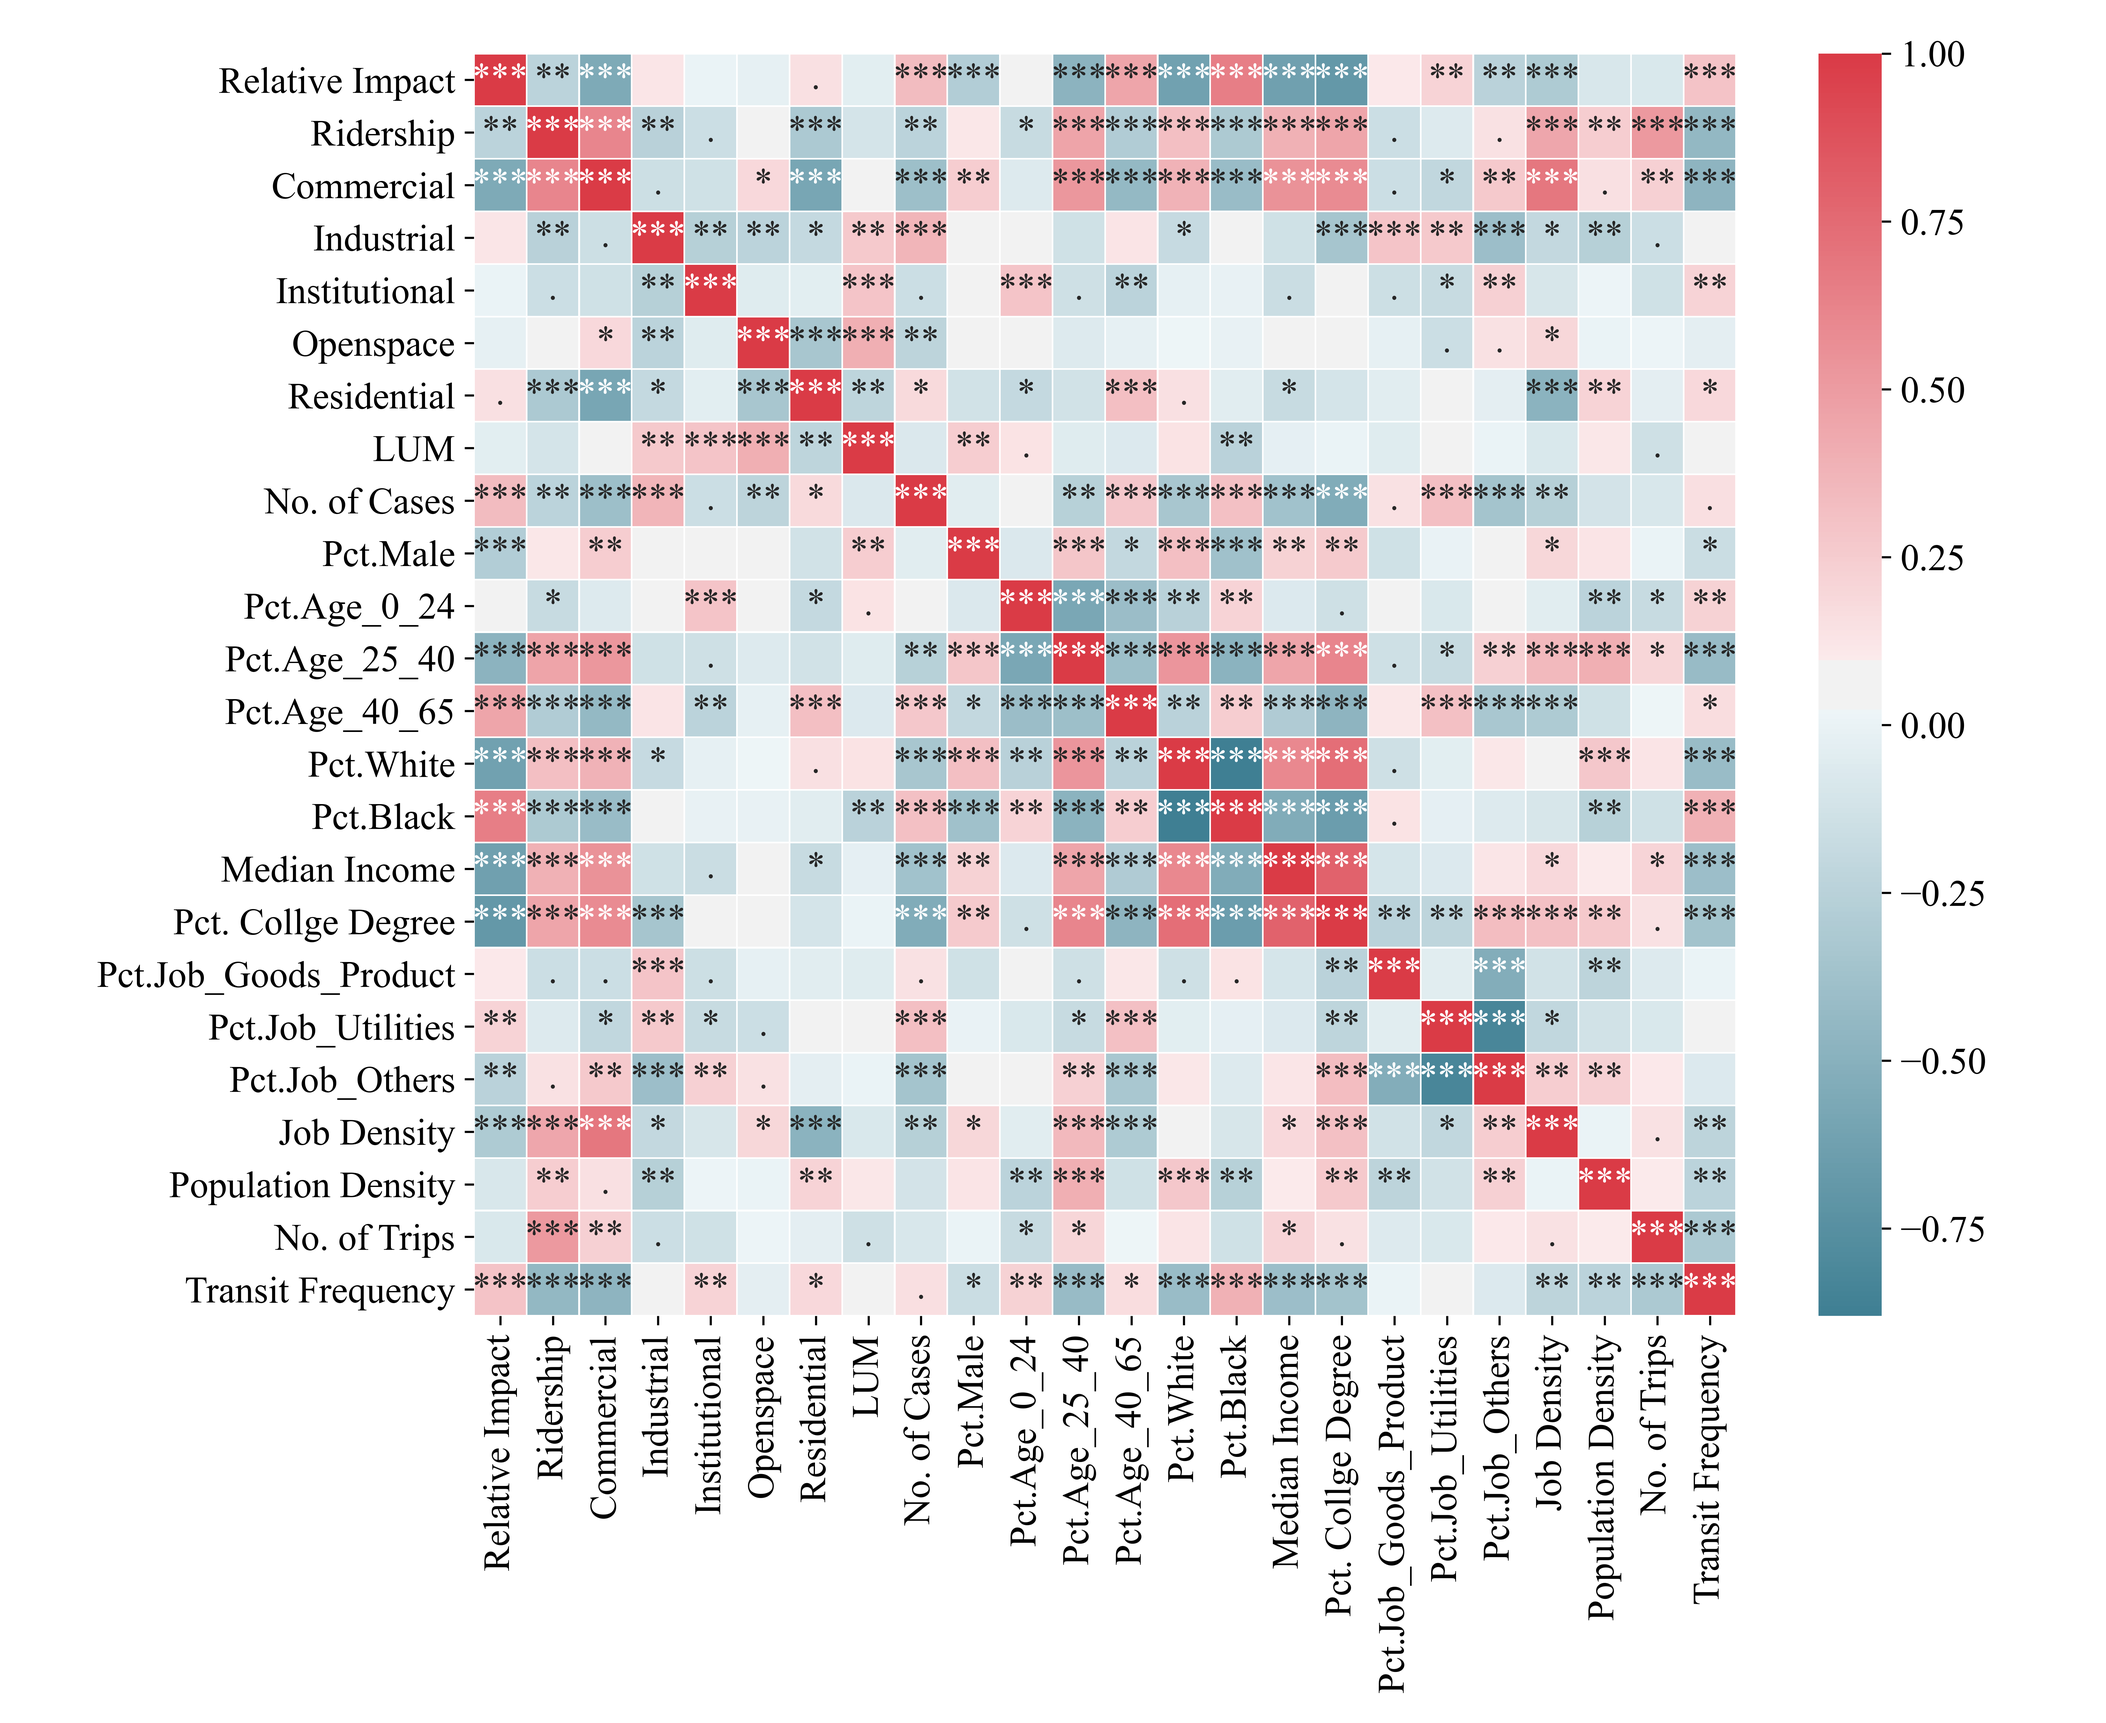
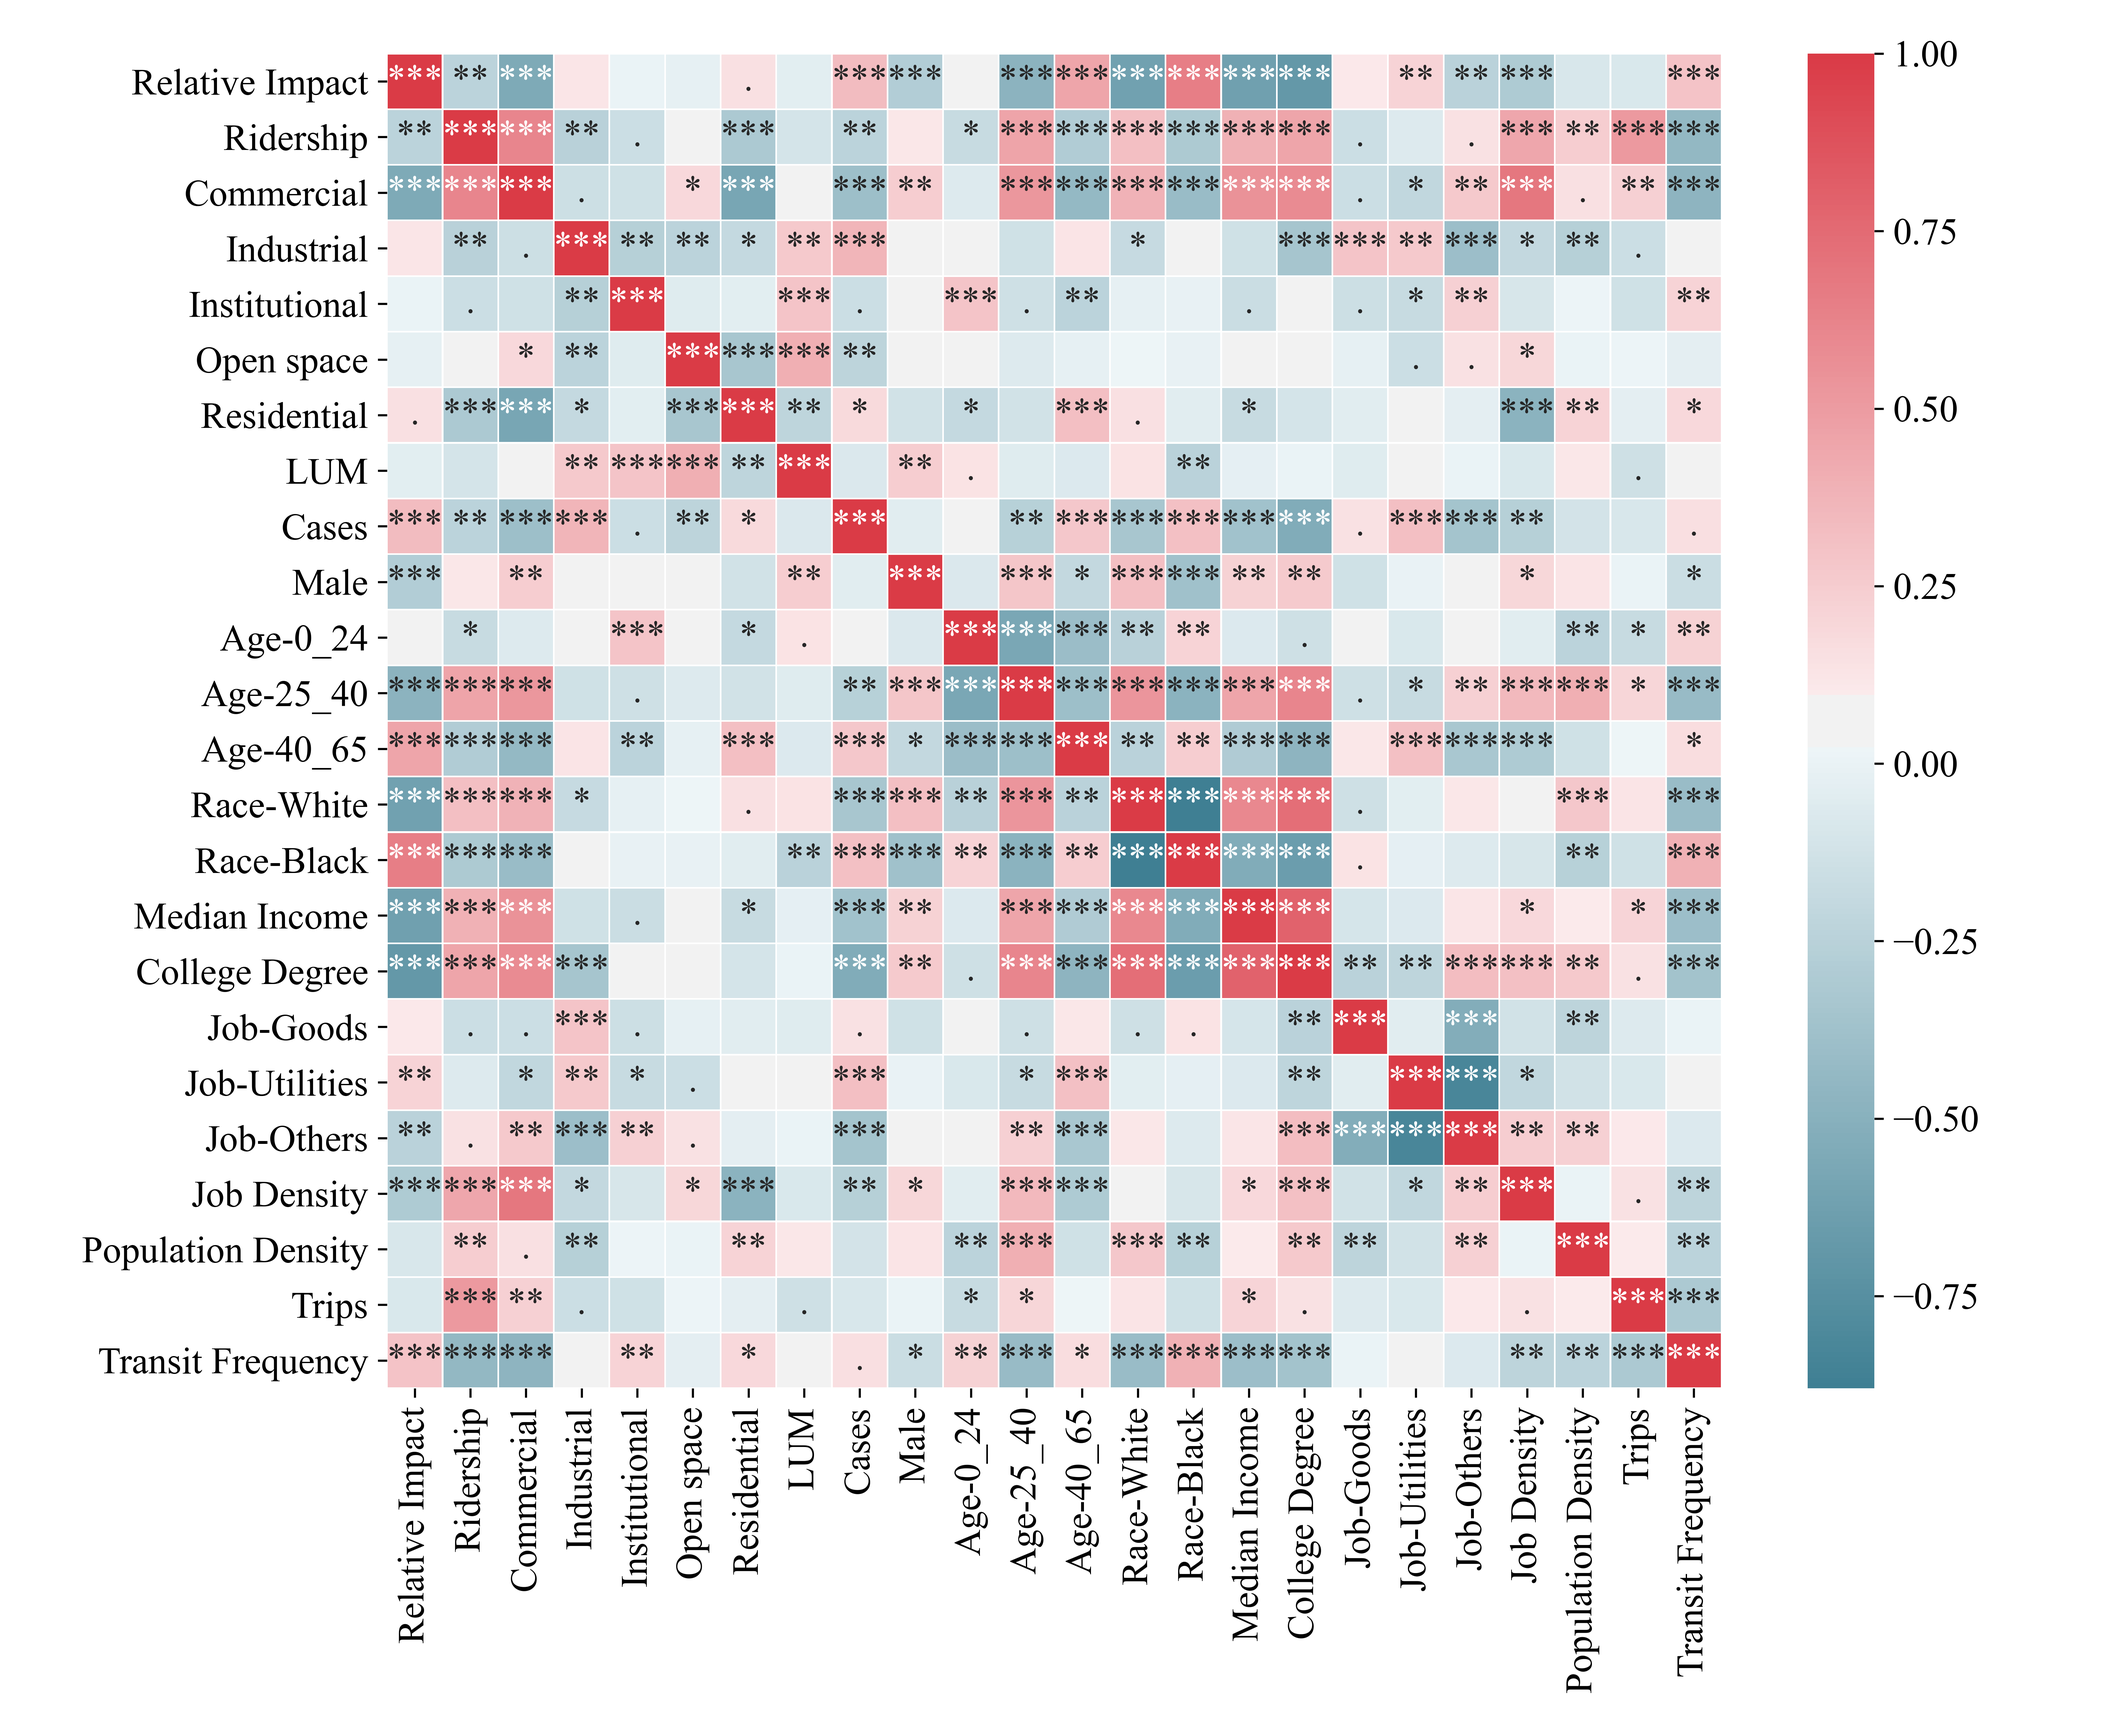
Update_Figure

diff --git a/4-Feature_Build.py b/4-Feature_Build.py
@@ -57,7 +57,7 @@ Buffer_S['station_id'] = Station['station_id']
 
 ## Socio calculation
 # Read BlockGroup
-BlockGroup = gpd.read_file(r'BlockGroup.shp')
+BlockGroup = gpd.read_file(r'D:\Transit\GIS\BlockGroup.shp')
 BlockGroup = BlockGroup.to_crs('EPSG:' + str(utm_code))
 # BlockGroup['ALAND'] = BlockGroup['ALAND'] * 3.86102e-7  # to sq. miles
 BlockGroup['AREA'] = BlockGroup.geometry.area * 3.86102e-7  # to sq. miles
@@ -236,14 +236,15 @@ W_Job = W_Job.drop(
      'WJob_Goods_Product', 'WJob_Utilities', 'WJob_OtherServices'], axis=1)
 
 # # Read population (new)
-# T_pop = pd.read_csv(r'D:\Transit\Population_by_2010_Census_Block.csv')
-# T_pop['GEOID'] = T_pop['CENSUS BLOCK FULL'].astype(str).str[0:-3]
-# T_pop = T_pop[['GEOID', 'TOTAL POPULATION']]
-# T_pop = T_pop.groupby('GEOID').sum()['TOTAL POPULATION'].reset_index()
-# T_pop = T_pop.merge(SInBG_index, on='GEOID', how='right')
-# T_pop = T_pop.fillna(T_pop.mean())
-# T_pop['NPop_Density'] = T_pop['TOTAL POPULATION'] / (T_pop['AREA'] * 1e3)
-# T_pop = T_pop[['station_id', 'NPop_Density']]
+T_pop = pd.read_csv(r'D:\Transit\Population_by_2010_Census_Block.csv')
+T_pop['GEOID'] = T_pop['CENSUS BLOCK FULL'].astype(str).str[0:-3]
+T_pop = T_pop[['GEOID', 'TOTAL POPULATION']]
+T_pop = T_pop.groupby('GEOID').sum()['TOTAL POPULATION'].reset_index()
+T_pop = T_pop.merge(SInBG_index, on='GEOID', how='right')
+T_pop = T_pop.fillna(T_pop.mean())
+T_pop['NPop_Density'] = T_pop['TOTAL POPULATION'] / (T_pop['AREA'] * 1e3)
+T_pop = T_pop[['station_id', 'NPop_Density']]
+# T_pop.describe().T
 
 # Merge all data
 dfs = [Road_Length_With_Type, LandUse_Area_PCT_Final, LUM, StationZIP, Socid_Raw_Final, W_Job]
@@ -306,7 +307,11 @@ No_Fre_Trips.columns = ['station_id', 'Num_trips', 'Freq']
 
 # Merge all in one matrix
 All_final = All_final.merge(No_Fre_Trips, on='station_id')
-# All_final.to_csv('All_final_Transit_R_0810.csv')
+# Change unit
+All_final['Num_trips'] = All_final['Num_trips'] / 1e3
+All_final['rides'] = All_final['rides'] / 1e3
+All_final.describe().T
+# All_final.to_csv('All_final_Transit_R_0812.csv')
 
 
 # PLOT CORR
@@ -317,13 +322,18 @@ corr_matr = All_final[['Relative_Impact', 'rides', 'COMMERCIAL', 'INDUSTRIAL',
                        'Income', 'College', 'Pct.WJob_Goods_Product',
                        'Pct.WJob_Utilities', 'Pct.WJob_OtherServices', 'WTotal_Job_Density',
                        'PopDensity', 'Num_trips', 'Freq']]
+# corr_matr['Relative_Impact'] = -corr_matr['Relative_Impact']
 corr_matr.rename({'Relative_Impact': 'Relative Impact', 'rides': 'Ridership', 'COMMERCIAL': 'Commercial',
-                  'INDUSTRIAL': 'Industrial', 'INSTITUTIONAL': 'Institutional', 'OPENSPACE': 'Openspace',
-                  'RESIDENTIAL': 'Residential', 'Cumu_Cases': 'No. of Cases', 'Income': 'Median Income',
-                  'College': 'Pct. Collge Degree', 'Pct.WJob_Goods_Product': 'Pct.Job_Goods_Product',
-                  'Pct.WJob_Utilities': 'Pct.Job_Utilities', 'Pct.WJob_OtherServices': 'Pct.Job_Others',
+                  'INDUSTRIAL': 'Industrial', 'INSTITUTIONAL': 'Institutional', 'OPENSPACE': 'Open space',
+                  'RESIDENTIAL': 'Residential', 'Cumu_Cases': 'Cases', 'Pct.Male': 'Male',
+                  'Pct.Age_0_24': 'Age-0_24', 'Pct.Age_25_40': 'Age-25_40',
+                  'Pct.Age_40_65': 'Age-40_65', 'Pct.White': 'Race-White', 'Pct.Black': 'Race-Black',
+                  'Income': 'Median Income',
+                  'College': 'College Degree', 'Pct.WJob_Goods_Product': 'Job-Goods',
+                  'Pct.WJob_Utilities': 'Job-Utilities', 'Pct.WJob_OtherServices': 'Job-Others',
                   'WTotal_Job_Density': 'Job Density', 'PopDensity': 'Population Density',
-                  'Num_trips': 'No. of Trips', 'Freq': 'Transit Frequency'}, axis=1, inplace=True)
+                  'Num_trips': 'Trips', 'Freq': 'Transit Frequency'}, axis=1, inplace=True)
+corr_matr.describe().T.to_csv('Describe.csv')
 corr_p = calculate_pvalues(corr_matr)
 corr_p[(corr_p > 0.1)] = 0.1
 corr_p[(corr_p < 0.1) & (corr_p >= 0.05)] = 0.05

diff --git a/1-L_Station_Ridership_Prepare.py b/1-L_Station_Ridership_Prepare.py
@@ -27,7 +27,8 @@ Daily_Lstaion = pd.read_csv(r'CTA_-_Ridership_-__L__Station_Entries_-_Daily_Tota
 Daily_Lstaion['date'] = pd.to_datetime(Daily_Lstaion['date'])
 Daily_Lstaion = Daily_Lstaion.sort_values(by=['station_id', 'date']).reset_index(drop=True)
 Daily_Lstaion['Year'] = Daily_Lstaion.date.dt.year
-# Daily_Lstaion.groupby('date').sum()['rides'].plot()
+
+# Daily_Lstaion.groupby('Year').sum()['rides'].plot()
 # Only need after 2015
 # Daily_Lstaion = Daily_Lstaion[Daily_Lstaion['Year'] >= 2015].reset_index(drop=True)
 Daily_Lstaion = Daily_Lstaion.drop_duplicates(subset=['station_id', 'date'])
@@ -44,11 +45,14 @@ Daily_Lstaion = Daily_Lstaion.sort_values(by=['station_id', 'date'])
 
 # Read cases
 cases = pd.read_csv(r'https://raw.githubusercontent.com/nytimes/covid-19-data/master/us-counties.csv')
+cases_0430 = cases[cases['date'] == '2020-04-30']
+cases_0430.to_csv('cases_0430.csv')
 cases = cases[(cases['county'] == 'Cook') & (cases['state'] == 'Illinois')].reset_index(drop=True)
 cases['date'] = pd.to_datetime(cases['date'])
 cases.set_index('date', inplace=True)
 cases['cases'] = cases['cases'].diff()
 cases = cases.fillna(0)
+cases.to_csv('cases_chicago.csv')
 
 # Plot time-varying figure
 All_ride = Daily_Lstaion.groupby('date').sum()['rides'].reset_index()
@@ -180,7 +184,11 @@ Daily_Lstaion_Final[['station_id', 'date', 'daytype', 'rides',
                      'Week', 'IsWeekend', 'Holidays', 'PRCP', 'TMAX', 'TMIN']].to_csv(
     'Daily_Lstaion_Final_0806.csv', index=False)
 
+# Output for arcgis
 Count_sta = Daily_Lstaion_Final[Daily_Lstaion_Final['Year'] == 2019].groupby(['station_id']).mean()[
     ['rides']].reset_index()
 Stations = Stations.merge(Count_sta, on='station_id')
 Stations.to_csv('LStations_Chicago.csv')
+
+Daily_Lstaion_Final = pd.read_csv(r'Daily_Lstaion_Final_0806.csv')
+Daily_Lstaion_Final.describe().T.to_csv('Desc_BSTS.csv')
